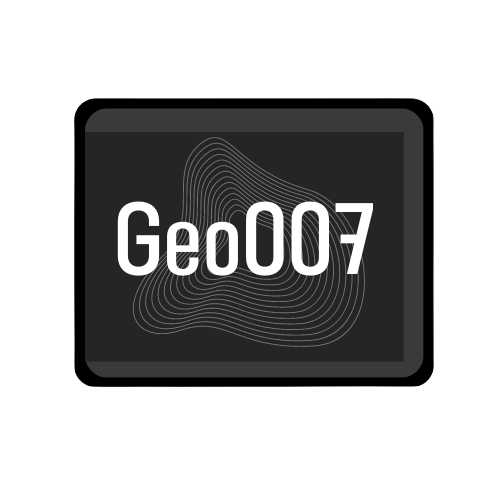
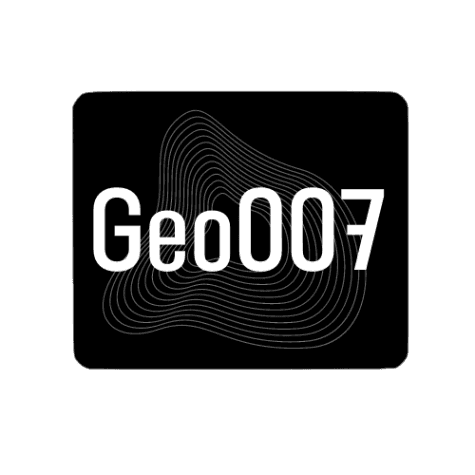
agregarImgProy

diff --git a/src/components/Footer.js b/src/components/Footer.js
@@ -1,9 +1,10 @@
 
 import { Container, Row, Col } from "react-bootstrap";
-import logo from "../assets/img/logo.svg"
+import logo from "../assets/img/Geo007.png"
 import navIcon1 from '../assets/img/nav-icon1.svg';
 import navIcon2 from '../assets/img/nav-icon2.svg';
-import navIcon3 from '../assets/img/nav-icon3.svg';
+import { AiFillGithub } from "react-icons/ai";
+
 
 export const Footer=()=>{
 
@@ -17,9 +18,19 @@ return(
                 </Col>
                 <Col sm={6} className="text-center text-sm-end">
                     <div className="social-icon">
-                        <a href="#"><img src={navIcon1} alt="icono"></img> </a>
-                        <a href="#"><img src={navIcon2} alt="icono"></img> </a>
-                        <a href="#"><img src={navIcon3} alt="icono"></img> </a>
+                    <a
+                  target="_blank"
+                  href="https://www.linkedin.com/in/geovanny-araya-b47296183/"
+                >
+                  {""}
+                  <img src={navIcon1} alt="img"></img>
+                </a>
+                       
+                        <a target="_blank" href="https://github.com/Geovanny251201">
+                  {" "}
+                  <AiFillGithub color="white" size={20}></AiFillGithub>
+                </a>
+                      
 
                     </div>
                     <p>CopyRight 2023</p>

diff --git a/src/components/Projects.js b/src/components/Projects.js
@@ -5,6 +5,8 @@ import projImg2 from "../assets/img/project-img2.png";
 import projImg3 from "../assets/img/project-img3.png";
 import pokedexCapture from "../assets/img/poke.png";
 import listaTareas from "../assets/img/listaTareas .png";
+import coffeeApp from "../assets/img/coffeeApp.jpg";
+
 
 
 import colorSharp2 from "../assets/img/color-sharp2.png";
@@ -26,7 +28,7 @@ export const Projects = () => {
     {
       title: "Lista de Tareas",
       description: "Design & Development",
-      imgUrl: projImg3,
+      imgUrl: coffeeApp,
     },
     {
       title: "Business Startup",
